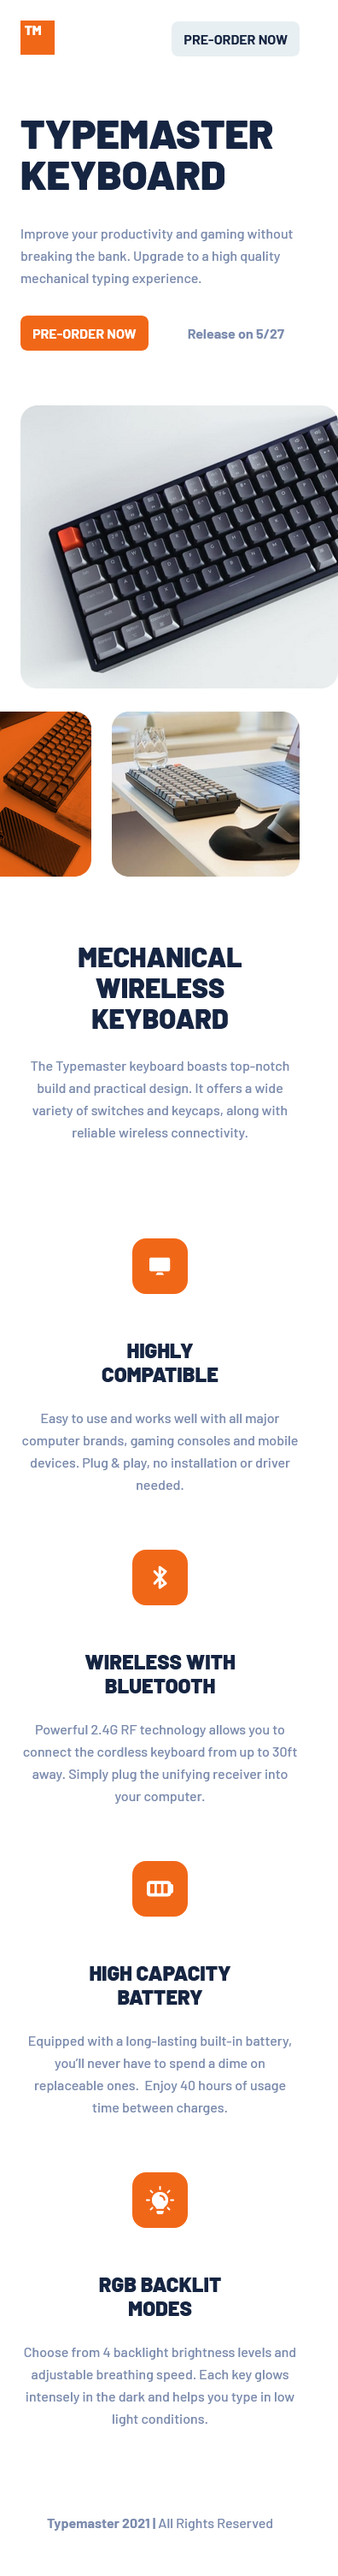
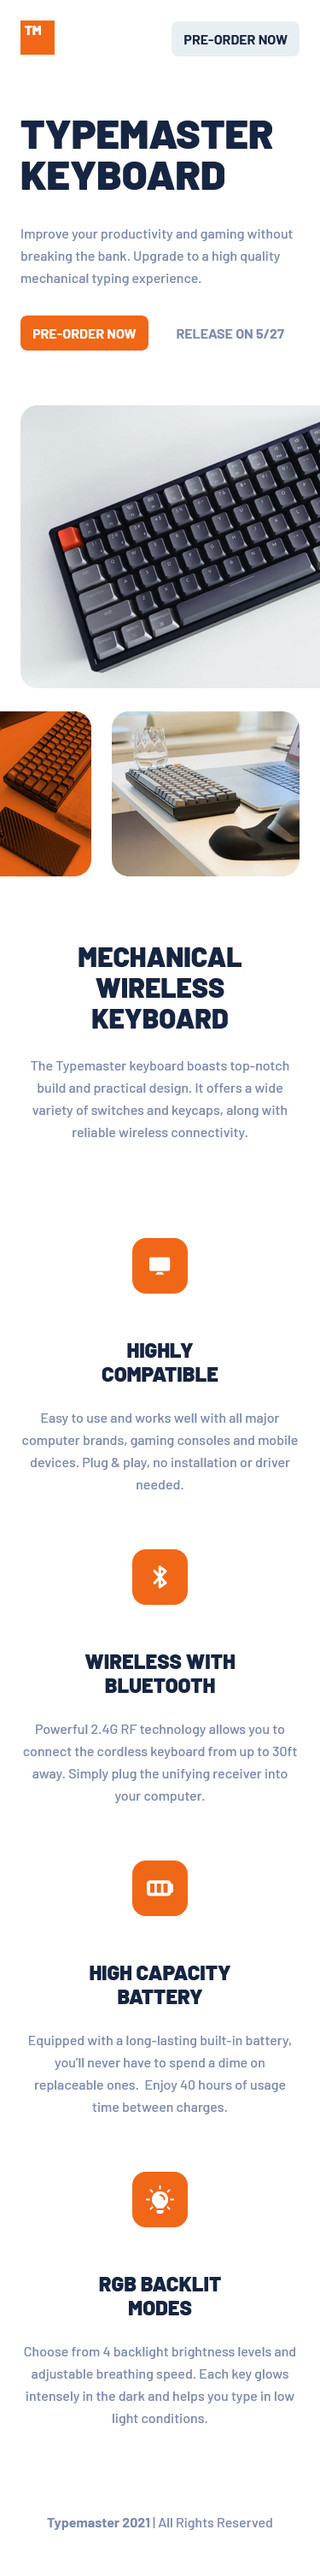
typemaster-pre-launch-landing-page: tablet version

Changed region(s): [[0.0, 0.1546, 1.0, 0.9897], [0.0587, 0.0, 0.8507, 0.1546]]

diff --git a/frontend-mentor/typemaster-pre-launch-landing-page/css/style.css b/frontend-mentor/typemaster-pre-launch-landing-page/css/style.css
@@ -1,1 +1,1 @@
-@import"https://fonts.googleapis.com/css2?family=Barlow:wght@500;700;900&display=swap";*{margin:0;padding:0;box-sizing:border-box}body{font-family:"Barlow",sans-serif;padding:24px;overflow-x:hidden}main,footer{text-align:center}h1,h2,h3{text-transform:uppercase;font-weight:900;color:#162542}h1{font-size:48px;line-height:48px;margin-bottom:32px}h2{font-size:32px;line-height:36px;margin:75px auto 24px auto;max-width:255px}h3{font-size:24px;line-height:28px;max-width:180px;margin:auto;margin-bottom:24px}a{text-decoration:none}p{color:#7b8bad;font-weight:500;font-size:16px;line-height:26px}p span{font-weight:700}.btn{border-radius:8px;padding:11px 14px;text-transform:uppercase;font-weight:700;transition:color .3s,background-color .3s}.btn--gray{background-color:#e8eff2;color:#162542}.btn--gray:hover{color:#fff;background-color:#162542}.btn--orange{background-color:#f16718;color:#fff}.btn--orange:hover{background-color:#ff9b62}.header__top{display:flex;justify-content:space-between;align-items:center;margin-bottom:64px}.header__release-date{display:flex;justify-content:space-between;align-items:center;margin-top:32px;margin-bottom:64px}.header__release-date--p{font-weight:700;margin-right:18px}.header__img{width:372px;height:331px;border-radius:20px;margin-bottom:24px}main ul{list-style-type:none;display:flex;flex-direction:column;gap:64px;margin:112px 0 96px 0}main ul li:nth-child(1) img{padding:22px 20px}main ul li:nth-child(2) img{padding:19px 24px}main ul li:nth-child(3) img{padding:23px 17px}main ul li:nth-child(4) img{padding:16px 16px}main ul li img{width:65px;height:65px}main ul img{background-color:#f16718;border-radius:16px;margin-bottom:48px}.main__imgs{display:flex;align-items:center;justify-content:flex-end;gap:24px}.main__imgs img{height:193px;border-radius:20px}footer p{margin-bottom:26px}/*# sourceMappingURL=style.css.map */
+@import"https://fonts.googleapis.com/css2?family=Barlow:wght@500;700;900&display=swap";*{margin:0;padding:0;box-sizing:border-box}body{font-family:"Barlow",sans-serif;padding:24px;overflow-x:hidden}main,footer{text-align:center}h1,h2,h3{text-transform:uppercase;font-weight:900;color:#162542}h1{font-size:48px;line-height:48px;margin-bottom:32px}h2{font-size:32px;line-height:36px;margin:75px auto 24px auto;max-width:255px}h3{font-size:24px;line-height:28px;max-width:180px;margin:auto;margin-bottom:24px}a{text-decoration:none}p{color:#7b8bad;font-weight:500;font-size:16px;line-height:26px}p span{font-weight:700}.btn{border-radius:8px;padding:11px 14px;text-transform:uppercase;font-weight:700;transition:color .3s,background-color .3s}.btn--gray{background-color:#e8eff2;color:#162542}.btn--gray:hover{color:#fff;background-color:#162542}.btn--orange{background-color:#f16718;color:#fff}.btn--orange:hover{background-color:#ff9b62}.header__top{display:flex;justify-content:space-between;align-items:center;margin-bottom:64px}.header__release-date{display:flex;justify-content:space-between;align-items:center;margin-top:32px;margin-bottom:64px}.header__release-date--p{font-weight:700;margin-right:18px;text-transform:uppercase}.header__img{width:372px;height:331px;margin-bottom:24px}.header__img,.header__img--tablet,.header__img--desktop{border-radius:20px}.header__img--tablet,.header__img--desktop{display:none}main ul{list-style-type:none;display:flex;flex-direction:column;gap:64px;margin:112px 0 96px 0}main ul li:nth-child(1) img{padding:22px 20px}main ul li:nth-child(2) img{padding:19px 24px}main ul li:nth-child(3) img{padding:23px 17px}main ul li:nth-child(4) img{padding:16px 16px}main ul li img{width:65px;height:65px}main ul img{background-color:#f16718;border-radius:16px;margin-bottom:48px}.main__imgs{display:flex;align-items:center;justify-content:flex-end;gap:24px}.main__imgs--tablet,.main__imgs--desktop{display:none}.main__imgs img{height:193px;border-radius:20px}footer p{margin-bottom:26px}@media screen and (min-width: 480px){body{padding:40px}main{text-align:left}h1{margin-bottom:34px}h2{margin:unset}h3{margin:unset;margin-bottom:24px}.btn{padding:16px 26px}.header__top{margin-bottom:62px}.header__release-date{margin-top:39px;margin-bottom:unset}.header__release-date--p{margin-right:unset}.header__img{display:none}.header__img--tablet{display:unset;width:478px;height:425px}.header__grid{display:grid;align-items:center;column-gap:69px;grid-template-columns:1.7fr .3fr;margin-bottom:40px}.header__grid--left{width:339px}main ul{flex-direction:row;flex-wrap:wrap;gap:unset;margin:142px 0;column-gap:69px;row-gap:72px}main ul li{max-width:281px}main ul img{margin-bottom:40px}.main__imgs{display:flex;align-items:center;justify-content:space-between;gap:unset;margin-bottom:72px}.main__imgs--tablet{display:unset}.main__imgs--mobile{display:none}.main__imgs img{height:320px}.main__title{display:flex;align-items:center;justify-content:space-between}.main__title p{max-width:398px}footer p{margin-bottom:3px}}/*# sourceMappingURL=style.css.map */

diff --git a/frontend-mentor/typemaster-pre-launch-landing-page/index.html b/frontend-mentor/typemaster-pre-launch-landing-page/index.html
@@ -17,34 +17,50 @@
       <a href="#" class="btn btn--gray">Pre-order now</a>
     </div>
 
-    <h1>Typemaster keyboard</h1>
+    <div class="header__grid">
+      <div class="header__grid--left">
+        <h1>Typemaster keyboard</h1>
 
-    <p>
-      Improve your productivity and gaming without breaking the bank. Upgrade to a high quality
-      mechanical typing experience.
-    </p>
+        <p>
+          Improve your productivity and gaming without breaking the bank. Upgrade to a high quality
+          mechanical typing experience.
+        </p>
 
-    <div class="header__release-date">
+        <div class="header__release-date">
 
-      <a href="#" class="btn btn--orange">Pre-order now</a>
+          <a href="#" class="btn btn--orange">Pre-order now</a>
 
-      <p class="header__release-date--p">Release on 5/27</p>
+          <p class="header__release-date--p">Release on 5/27</p>
+        </div>
+      </div>
+
+      <div class="header__grid--right">
+        <img src="assets/mobile/image-keyboard.jpg" alt="" aria-hidden="true" class="header__img">
+        <img src="assets/tablet/image-keyboard.jpg" alt="" aria-hidden="true" class="header__img--tablet">
+        <img src="assets/desktop/image-keyboard.jpg" alt="" aria-hidden="true" class="header__img--desktop">
+      </div>
     </div>
-
-    <img src="assets/mobile/image-keyboard.jpg" alt="" aria-hidden="true" class="header__img">
   </header>
 
   <main>
     <div class="main__imgs">
-      <img src="assets/mobile/image-phone-and-keyboard.jpg" alt="" aria-hidden="true">
-      <img src="assets/mobile/image-glass-and-keyboard.jpg" alt="" aria-hidden="true">
+      <img src="assets/mobile/image-phone-and-keyboard.jpg" alt="" aria-hidden="true" class="main__imgs--mobile">
+      <img src="assets/mobile/image-glass-and-keyboard.jpg" alt="" aria-hidden="true" class="main__imgs--mobile">
+
+      <img src="assets/tablet/image-phone-and-keyboard.jpg" alt="" aria-hidden="true" class="main__imgs--tablet">
+      <img src="assets/tablet/image-glass-and-keyboard.jpg" alt="" aria-hidden="true" class="main__imgs--tablet">
+
+      <img src="assets/desktop/image-phone-and-keyboard.jpg" alt="" aria-hidden="true" class="main__imgs--desktop">
+      <img src="assets/desktop/image-glass-and-keyboard.jpg" alt="" aria-hidden="true" class="main__imgs--desktop">
     </div>
 
-    <h2>Mechanical wireless keyboard</h2>
-    <p>
-      The Typemaster keyboard boasts top-notch build and practical design. It offers a wide variety
-      of switches and keycaps, along with reliable wireless connectivity.
-    </p>
+    <div class="main__title">
+      <h2>Mechanical wireless keyboard</h2>
+      <p>
+        The Typemaster keyboard boasts top-notch build and practical design. It offers a wide variety
+        of switches and keycaps, along with reliable wireless connectivity.
+      </p>
+    </div>
 
     <ul>
       <li>
@@ -86,7 +102,7 @@
   </main>
 
   <footer>
-    <p><span>Typemaster 2021 | </span>All Rights Reserved</p>
+    <p><span>Typemaster 2021</span> | All Rights Reserved</p>
   </footer>
 </body>
 

diff --git a/frontend-mentor/typemaster-pre-launch-landing-page/scss/_tablet.scss b/frontend-mentor/typemaster-pre-launch-landing-page/scss/_tablet.scss
@@ -1,2 +1,120 @@
 @media screen and (min-width: 480px) {
+  body {
+    padding: 40px;
+  }
+
+  main {
+    text-align: left;
+  }
+
+  h1 {
+    margin-bottom: 34px;
+  }
+
+  h2 {
+    margin: unset;
+  }
+
+  h3 {
+    margin: unset;
+    margin-bottom: 24px;
+  }
+
+  .btn {
+    padding: 16px 26px;
+  }
+
+  .header {
+    &__top {
+      margin-bottom: 62px;
+    }
+
+    &__release-date {
+      margin-top: 39px;
+      margin-bottom: unset;
+
+      &--p {
+        margin-right: unset;
+      }
+    }
+
+    &__img {
+      display: none;
+
+      &--tablet {
+        display: unset;
+        width: 478px;
+        height: 425px;
+      }
+    }
+
+    &__grid {
+      display: grid;
+      align-items: center;
+      column-gap: 69px;
+      grid-template-columns: 1.7fr 0.3fr;
+      margin-bottom: 40px;
+
+      &--left {
+        width: 339px;
+      }
+    }
+  }
+
+  main {
+    ul {
+      flex-direction: row;
+      flex-wrap: wrap;
+      gap: unset;
+      margin: 142px 0;
+      column-gap: 69px;
+      row-gap: 72px;
+
+      li {
+        max-width: 281px;
+      }
+
+      img {
+        margin-bottom: 40px;
+      }
+    }
+  }
+
+  .main {
+    &__imgs {
+      display: flex;
+      align-items: center;
+      justify-content: space-between;
+      gap: unset;
+      margin-bottom: 72px;
+
+      &--tablet {
+        display: unset;
+      }
+
+      &--mobile {
+        display: none;
+      }
+
+      img {
+        height: 320px;
+      }
+    }
+
+    &__title {
+      display: flex;
+      align-items: center;
+      justify-content: space-between;
+
+      p {
+        max-width: 398px;
+      }
+    }
+  }
+
+  footer {
+    p {
+      margin-bottom: 3px;
+    }
+  }
 }

diff --git a/frontend-mentor/typemaster-pre-launch-landing-page/scss/_mobile.scss b/frontend-mentor/typemaster-pre-launch-landing-page/scss/_mobile.scss
@@ -98,14 +98,25 @@ p {
     &--p {
       font-weight: 700;
       margin-right: 18px;
+      text-transform: uppercase;
     }
   }
 
   &__img {
     width: 372px;
     height: 331px;
-    border-radius: 20px;
     margin-bottom: 24px;
+
+    &,
+    &--tablet,
+    &--desktop {
+      border-radius: 20px;
+    }
+
+    &--tablet,
+    &--desktop {
+      display: none;
+    }
   }
 }
 
@@ -154,6 +165,11 @@ main {
     align-items: center;
     justify-content: flex-end;
     gap: 24px;
+
+    &--tablet,
+    &--desktop {
+      display: none;
+    }
 
     img {
       height: 193px;
